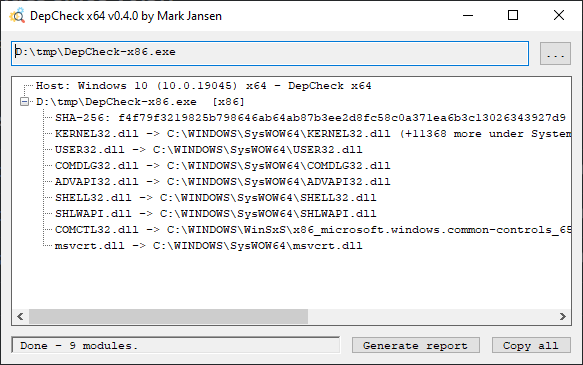
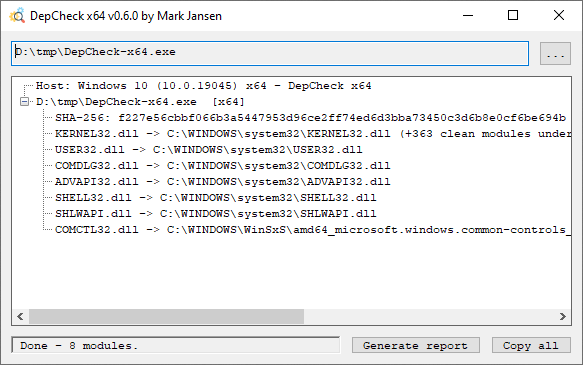
Bring the site's feature list up to date
New screenshot, a "What it reports" section, and every console option.

diff --git a/site/index.html b/site/index.html
@@ -98,13 +98,13 @@
 		imports the way the loader does.</p>
 
 		<div class="image rborder">
-			<img src="/images/analysis.png" width="583" height="365" alt="DepCheck showing the resolved dependencies of DepCheck-x86.exe.">
+			<img src="/images/analysis.png" width="583" height="365" alt="DepCheck showing the resolved dependencies of DepCheck-x64.exe.">
 			<br>
 			Example result after DepCheck scanning itself.
 		</div>
 
 		<h2>What it resolves</h2>
-		<p>The real search order, not a directory scan:</p>
+		<p>The real search order:</p>
 		<ul>
 			<li><b>KnownDLLs</b>, from the system directory first.</li>
 			<li><b>apiset contracts</b> (<code>api-ms-*</code>, <code>ext-ms-*</code>), through the apiset map.</li>
@@ -113,7 +113,19 @@
 			<li>The <b>search path of the analyzed binary's architecture</b>: a 64-bit build reports SysWOW64
 				dependencies for a 32-bit target, and the other way around.</li>
 			<li>Dependencies of the <b>wrong bitness</b>, reported instead of passed.</li>
+			<li><b>Forwarded exports</b>, followed to the module that actually implements them.</li>
+			<li><b>Drivers</b> (<code>.sys</code>), resolved the way the kernel loader does, including
+				<code>System32\drivers</code>.</li>
+		</ul>
+
+		<h2>What it reports</h2>
+		<ul>
+			<li>Every <b>missing DLL and missing imported function</b>, on the module that imports it.</li>
+			<li>For a missing runtime DLL, the <b>redistributable</b> that ships it.</li>
+			<li><b>Damaged or oversized import tables</b>, flagged instead of shown as clean.</li>
 			<li>Per file: <b>SHA-256</b>, and whether it carries a <code>Zone.Identifier</code>.</li>
+			<li>The <b>Windows version</b> it ran on, or Wine or ReactOS by name.</li>
+			<li>A clean <b>System32 subtree folded</b> into one line, so the problems stand out.</li>
 		</ul>
 
 		<h2>Download<!--{{VERSION}}--></h2>
@@ -130,14 +142,21 @@
 		</p>
 
 		<h2>Usage</h2>
-		<p>Drop a file on the window or on the icon. From a console it writes the tree to stdout:</p>
+		<p>Drop a file on the window or on the icon; right-click the window for the options below. From a console it
+		writes the tree to stdout:</p>
 		<pre>DepCheck.exe some.dll
-DepCheck.exe /depth:2 some.dll</pre>
-		<p><code>/depth:N</code> limits the walk depth (0, the default, is unlimited). Exit code:</p>
+DepCheck.exe /depth:2 /imports some.dll</pre>
+		<table class="exit">
+			<tr><td><code>/depth:N</code></td><td>walk only N levels below the file; 0, the default, is unlimited</td></tr>
+			<tr><td><code>/full</code></td><td>list every System32 module instead of folding clean subtrees</td></tr>
+			<tr><td><code>/imports</code></td><td>list every imported function, not only the missing ones</td></tr>
+			<tr><td><code>/help</code></td><td>show all options</td></tr>
+		</table>
+		<p><code>-full</code> and <code>--full</code> work too. Exit code:</p>
 		<table class="exit">
 			<tr><td><code>0</code></td><td>everything resolved</td></tr>
-			<tr><td><code>1</code></td><td>a dependency is missing</td></tr>
-			<tr><td><code>2</code></td><td>the file could not be analyzed</td></tr>
+			<tr><td><code>1</code></td><td>a DLL or an imported function is missing (delay-load imports do not count)</td></tr>
+			<tr><td><code>2</code></td><td>the analysis hit an error</td></tr>
 		</table>
 
 		<hr>
